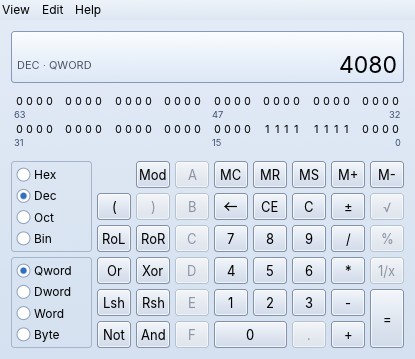
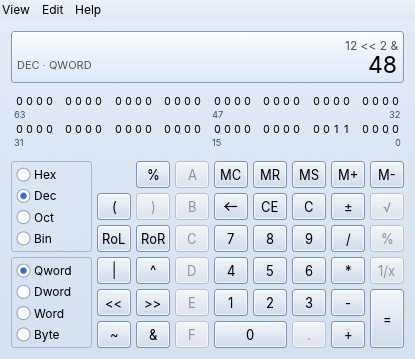
Add Programmer mode with C operator syntax and related settings

diff --git a/crates/calc-core/src/calculator.rs b/crates/calc-core/src/calculator.rs
@@ -124,6 +124,19 @@ impl BinOp {
             BinOp::Rsh => "Rsh",
         }
     }
+
+    /// The C-language operator, used in Programmer mode's expression line.
+    pub fn c_symbol(self) -> &'static str {
+        match self {
+            BinOp::Mod => "%",
+            BinOp::And => "&",
+            BinOp::Or => "|",
+            BinOp::Xor => "^",
+            BinOp::Lsh => "<<",
+            BinOp::Rsh => ">>",
+            op => op.symbol(),
+        }
+    }
 }
 
 #[derive(Debug, Clone, Copy, PartialEq, Eq)]
@@ -873,6 +886,15 @@ impl Calculator {
             .unwrap_or_else(|| self.format_num(&self.value))
     }
 
+    /// Operator text in the expression line: C syntax in Programmer mode.
+    fn op_text(&self, op: BinOp) -> &'static str {
+        if self.mode == Mode::Programmer {
+            op.c_symbol()
+        } else {
+            op.symbol()
+        }
+    }
+
     fn binary(&mut self, op: BinOp) -> Result<(), CalcError> {
         if !self.enabled(Key::Op(op)) {
             return Ok(());
@@ -881,8 +903,9 @@ impl Calculator {
             // Pressing another operator replaces the pending one (STD-002).
             if let Some(last) = self.levels.last_mut().and_then(|l| l.last_mut()) {
                 last.1 = op;
+                let text = self.op_text(op);
                 if let Some(t) = self.tokens.last_mut() {
-                    *t = op.symbol().into();
+                    *t = text.into();
                 }
                 return Ok(());
             }
@@ -906,7 +929,7 @@ impl Calculator {
         self.value = v;
         self.operand_text = None;
         self.tokens.push(text);
-        self.tokens.push(op.symbol().into());
+        self.tokens.push(self.op_text(op).into());
         self.last_was_op = true;
         Ok(())
     }
@@ -951,7 +974,7 @@ impl Calculator {
                 let expr = format!(
                     "{} {} {}",
                     self.operand_text(),
-                    op.symbol(),
+                    self.op_text(op),
                     self.format_num(&rhs)
                 );
                 self.value = self.apply(&self.value, op, &rhs)?;
@@ -1014,7 +1037,16 @@ impl Calculator {
         self.commit();
         let text = self.operand_text();
         self.value = self.apply_func(f, &self.value)?;
-        self.operand_text = Some(format!("{}({text})", f.name(self.angle)));
+        self.operand_text = Some(if self.mode == Mode::Programmer && f == Func::Not {
+            // C syntax: ~x, parenthesized when the operand is an expression.
+            if text.contains(' ') && !text.starts_with('(') {
+                format!("~({text})")
+            } else {
+                format!("~{text}")
+            }
+        } else {
+            format!("{}({text})", f.name(self.angle))
+        });
         self.last_was_op = false;
         self.inv = false;
         Ok(())

diff --git a/crates/calc-ui/src/keypad.rs b/crates/calc-ui/src/keypad.rs
@@ -72,6 +72,16 @@ impl App {
             None => plain(label),
         };
         resp.widget_info(|| WidgetInfo::labeled(WidgetType::Button, enabled, &name));
+        // Programmer operators may show their C sign; the word stays as name and tooltip.
+        let c_sign = (self.calc.mode == Mode::Programmer && self.settings.programmer_c_signs)
+            .then(|| layout::c_label(key))
+            .flatten();
+        let label = c_sign.unwrap_or(label);
+        let resp = if c_sign.is_some() {
+            resp.on_hover_text(&name)
+        } else {
+            resp
+        };
         let now = ui.input(|i| i.time);
         let flashing = self
             .flash

diff --git a/crates/calc-ui/src/layout.rs b/crates/calc-ui/src/layout.rs
@@ -328,6 +328,20 @@ pub fn a11y_id(key: Key, label: &str) -> Option<&'static str> {
     })
 }
 
+/// The C-language sign shown instead of a Programmer key's word label.
+pub fn c_label(key: Key) -> Option<&'static str> {
+    Some(match key {
+        Key::Op(BinOp::Mod) => "%",
+        Key::Op(BinOp::And) => "&",
+        Key::Op(BinOp::Or) => "|",
+        Key::Op(BinOp::Xor) => "^",
+        Key::Op(BinOp::Lsh) => "<<",
+        Key::Op(BinOp::Rsh) => ">>",
+        Key::Func(Func::Not) => "~",
+        _ => return None,
+    })
+}
+
 // ---- mode layout tables ---------------------------------------------------------------
 
 /// What sits left of the main keypad.

diff --git a/crates/calc-config/src/lib.rs b/crates/calc-config/src/lib.rs
@@ -72,6 +72,8 @@ pub struct Settings {
     pub copy_locale_decimal: bool,
     /// Copy includes digit-group separators when grouping is on (STD-010).
     pub copy_grouping: bool,
+    /// Programmer-mode buttons show C operator signs (`<<`, `&`, `~`…) instead of words.
+    pub programmer_c_signs: bool,
 }
 
 impl Default for Settings {
@@ -97,6 +99,7 @@ impl Default for Settings {
             group_separator: None,
             copy_locale_decimal: false,
             copy_grouping: false,
+            programmer_c_signs: true,
         }
     }
 }

diff --git a/crates/calc-ui/src/dialogs.rs b/crates/calc-ui/src/dialogs.rs
@@ -199,6 +199,9 @@ impl App {
                 ui.checkbox(&mut s.copy_locale_decimal, tr("prefs-copy-locale"));
                 ui.checkbox(&mut s.copy_grouping, tr("prefs-copy-grouping"));
                 ui.separator();
+                ui.strong(tr("prefs-programmer"));
+                ui.checkbox(&mut s.programmer_c_signs, tr("prefs-c-signs"));
+                ui.separator();
                 if ui.button(tr("prefs-open-folder")).clicked() {
                     crate::app::open_path(&calc_config::config_dir());
                 }

diff --git a/README.md b/README.md
@@ -36,6 +36,7 @@ Arithmetic is exact. `0.1 + 0.2` is `0.3` and `1 / 3 * 3` is `1`, because number
 
 - Hex, Dec, Oct and Bin with Qword, Dword, Word and Byte word sizes. Values are two's-complement and wrap at the word size, just like integers in a program.
 - `And`, `Or`, `Xor`, `Not`, `Lsh`, `Rsh`, `RoL`, `RoR`, `Mod`, and integer division that truncates toward zero.
+- C syntax: the expression line shows `12 << 2 &`, `~x`, `%`, and you can type or paste `(1<<4)|3`. Buttons show the C signs too; Preferences can switch them back to `Lsh`, `And`, `Not`…
 - Keys that don't fit the current base are disabled. The 64-bit panel shows every bit; click a bit to flip it.
 
 ### Statistics mode

diff --git a/docs/keyboard.md b/docs/keyboard.md
@@ -54,11 +54,13 @@ This is Appendix A of the requirements (KEY-003, KEY-004). On macOS, use ⌘ whe
 | `a`–`f` | Hex digits | `%` | Mod |
 | `&` | And | `\|` | Or |
 | `^` | Xor | `~` | Not |
-| `<` | Lsh | `>` | Rsh |
+| `<` or `<<` | Lsh | `>` or `>>` | Rsh |
 | `j` | RoL | `k` | RoR |
 | `(` `)` | Parentheses | | |
 | F5 / F6 / F7 / F8 | Hex / Dec / Oct / Bin | | |
 | F12 / F2 / F3 / F4 | Qword / Dword / Word / Byte | | |
+
+Pasting a C expression such as `(1<<4)|3` works the same way.
 
 ## Statistics
 
